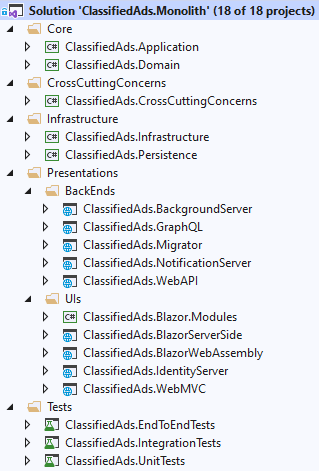
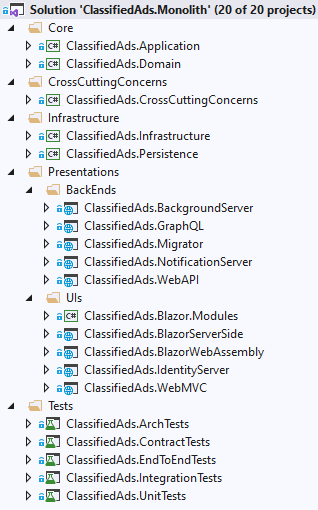
(#96) Architectural Tests

diff --git a/src/Monolith/ClassifiedAds.ArchTests/DomainTests.cs b/src/Monolith/ClassifiedAds.ArchTests/DomainTests.cs
@@ -1,0 +1,42 @@
+using ClassifiedAds.Domain.Entities;
+using NetArchTest.Rules;
+using Xunit;
+
+namespace ClassifiedAds.ArchTests
+{
+    public class DomainTests
+    {
+        [Fact]
+        public void DomainShouldNotHaveDependencyOnApplication()
+        {
+            var result = Types.InAssembly(typeof(Entity<>).Assembly)
+                .ShouldNot()
+                .HaveDependencyOn("ClassifiedAds.Application")
+                .GetResult();
+
+            Assert.True(result.IsSuccessful);
+        }
+
+        [Fact]
+        public void DomainShouldNotHaveDependencyOnInfrastructure()
+        {
+            var result = Types.InAssembly(typeof(Entity<>).Assembly)
+                .ShouldNot()
+                .HaveDependencyOn("ClassifiedAds.Infrastructure")
+                .GetResult();
+
+            Assert.True(result.IsSuccessful);
+        }
+
+        [Fact]
+        public void DomainShouldNotHaveDependencyOnPersistence()
+        {
+            var result = Types.InAssembly(typeof(Entity<>).Assembly)
+                .ShouldNot()
+                .HaveDependencyOn("ClassifiedAds.Persistence")
+                .GetResult();
+
+            Assert.True(result.IsSuccessful);
+        }
+    }
+}

diff --git a/src/Monolith/ClassifiedAds.ArchTests/ApplicationTests.cs b/src/Monolith/ClassifiedAds.ArchTests/ApplicationTests.cs
@@ -1,0 +1,31 @@
+using ClassifiedAds.Application;
+using NetArchTest.Rules;
+using Xunit;
+
+namespace ClassifiedAds.ArchTests
+{
+    public class ApplicationTests
+    {
+        [Fact]
+        public void ApplicationShouldNotHaveDependencyOnInfrastructure()
+        {
+            var result = Types.InAssembly(typeof(Dispatcher).Assembly)
+                .ShouldNot()
+                .HaveDependencyOn("ClassifiedAds.Infrastructure")
+                .GetResult();
+
+            Assert.True(result.IsSuccessful);
+        }
+
+        [Fact]
+        public void ApplicationShouldNotHaveDependencyOnPersistence()
+        {
+            var result = Types.InAssembly(typeof(Dispatcher).Assembly)
+                .ShouldNot()
+                .HaveDependencyOn("ClassifiedAds.Persistence")
+                .GetResult();
+
+            Assert.True(result.IsSuccessful);
+        }
+    }
+}
